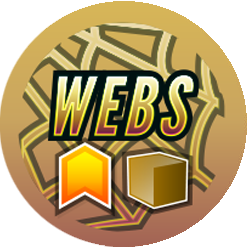
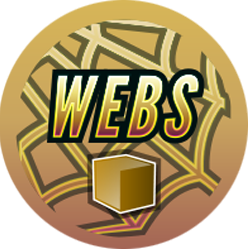
remove influence from  spiders web token

diff --git a/server/classes/factions/Spiders.js b/server/classes/factions/Spiders.js
@@ -37,7 +37,7 @@ class Spiders extends Faction {
         this.tokens['web'] = {
             count: 2,
             data: {
-                influence: 1,
+                influence: 0,
                 type: 'web',
                 cost: 0,
                 resource : 1,
@@ -227,6 +227,9 @@ class Spiders extends Faction {
            unit.webbed = true;
            if( unit.ready ) unit.ready = false;
         });
+
+        // discard this token
+        _.discardToken( args.token, args.area );
 
         // move along home
         this.game().advancePlayer();
